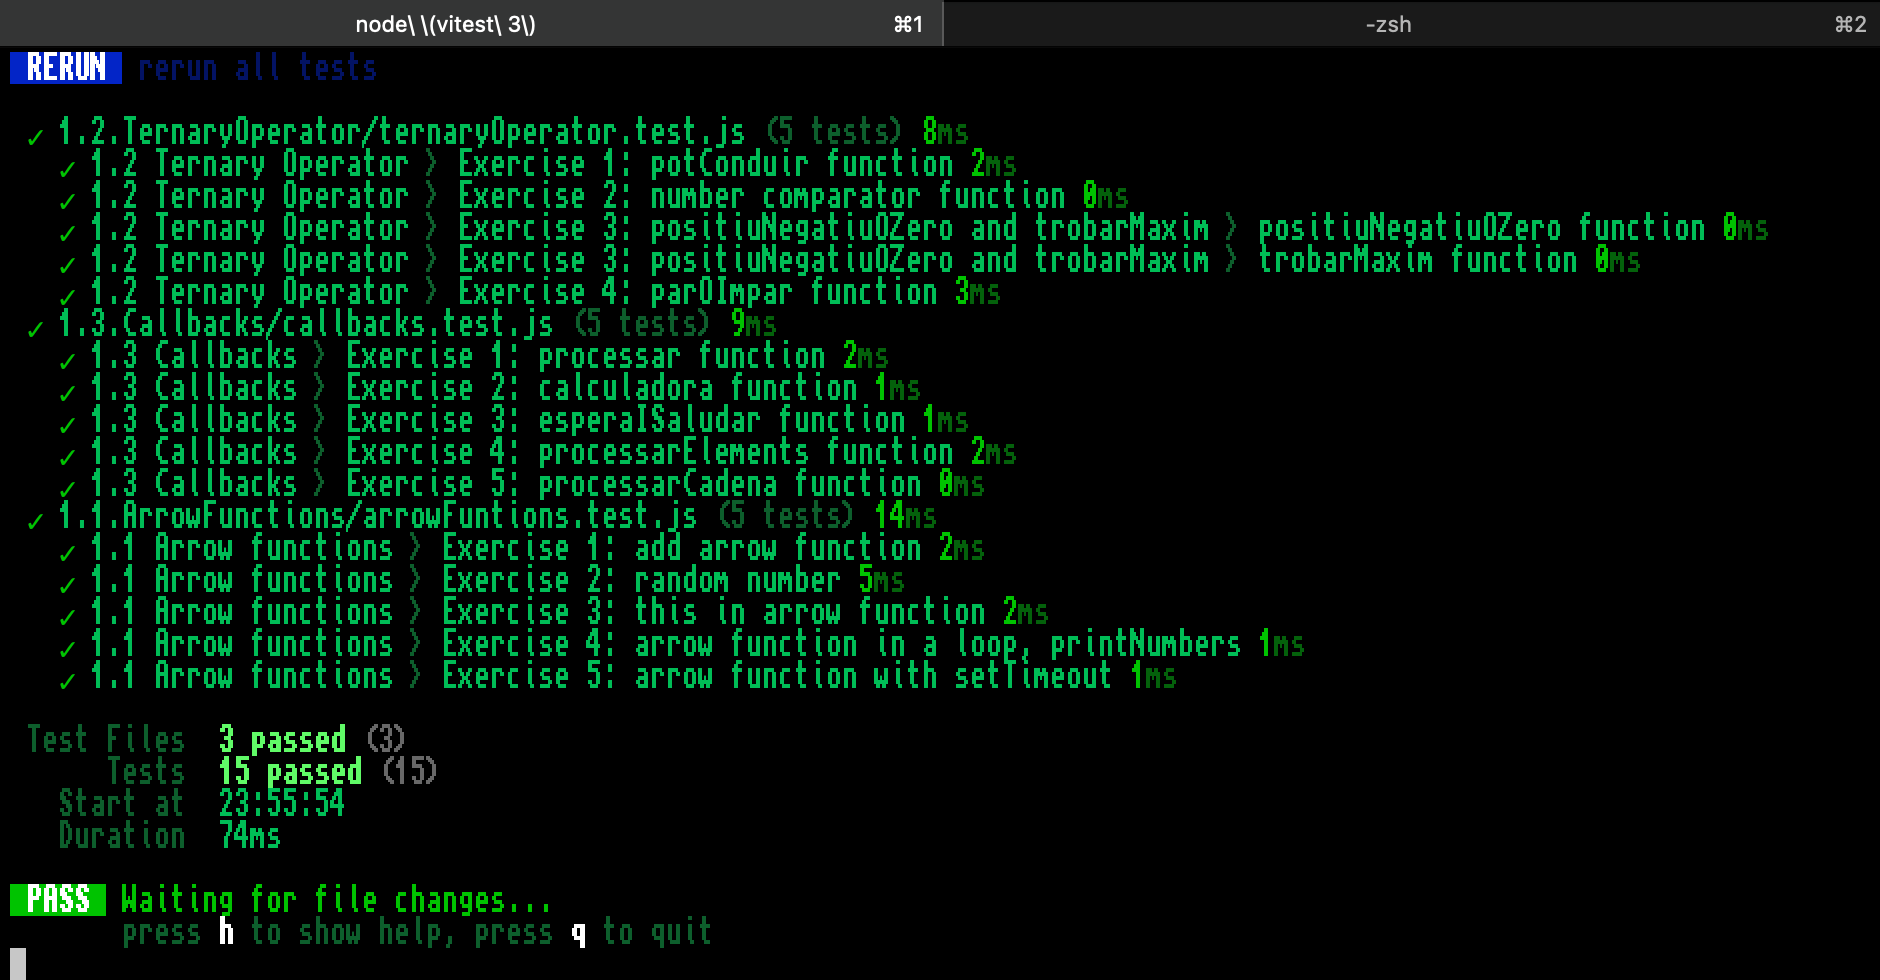
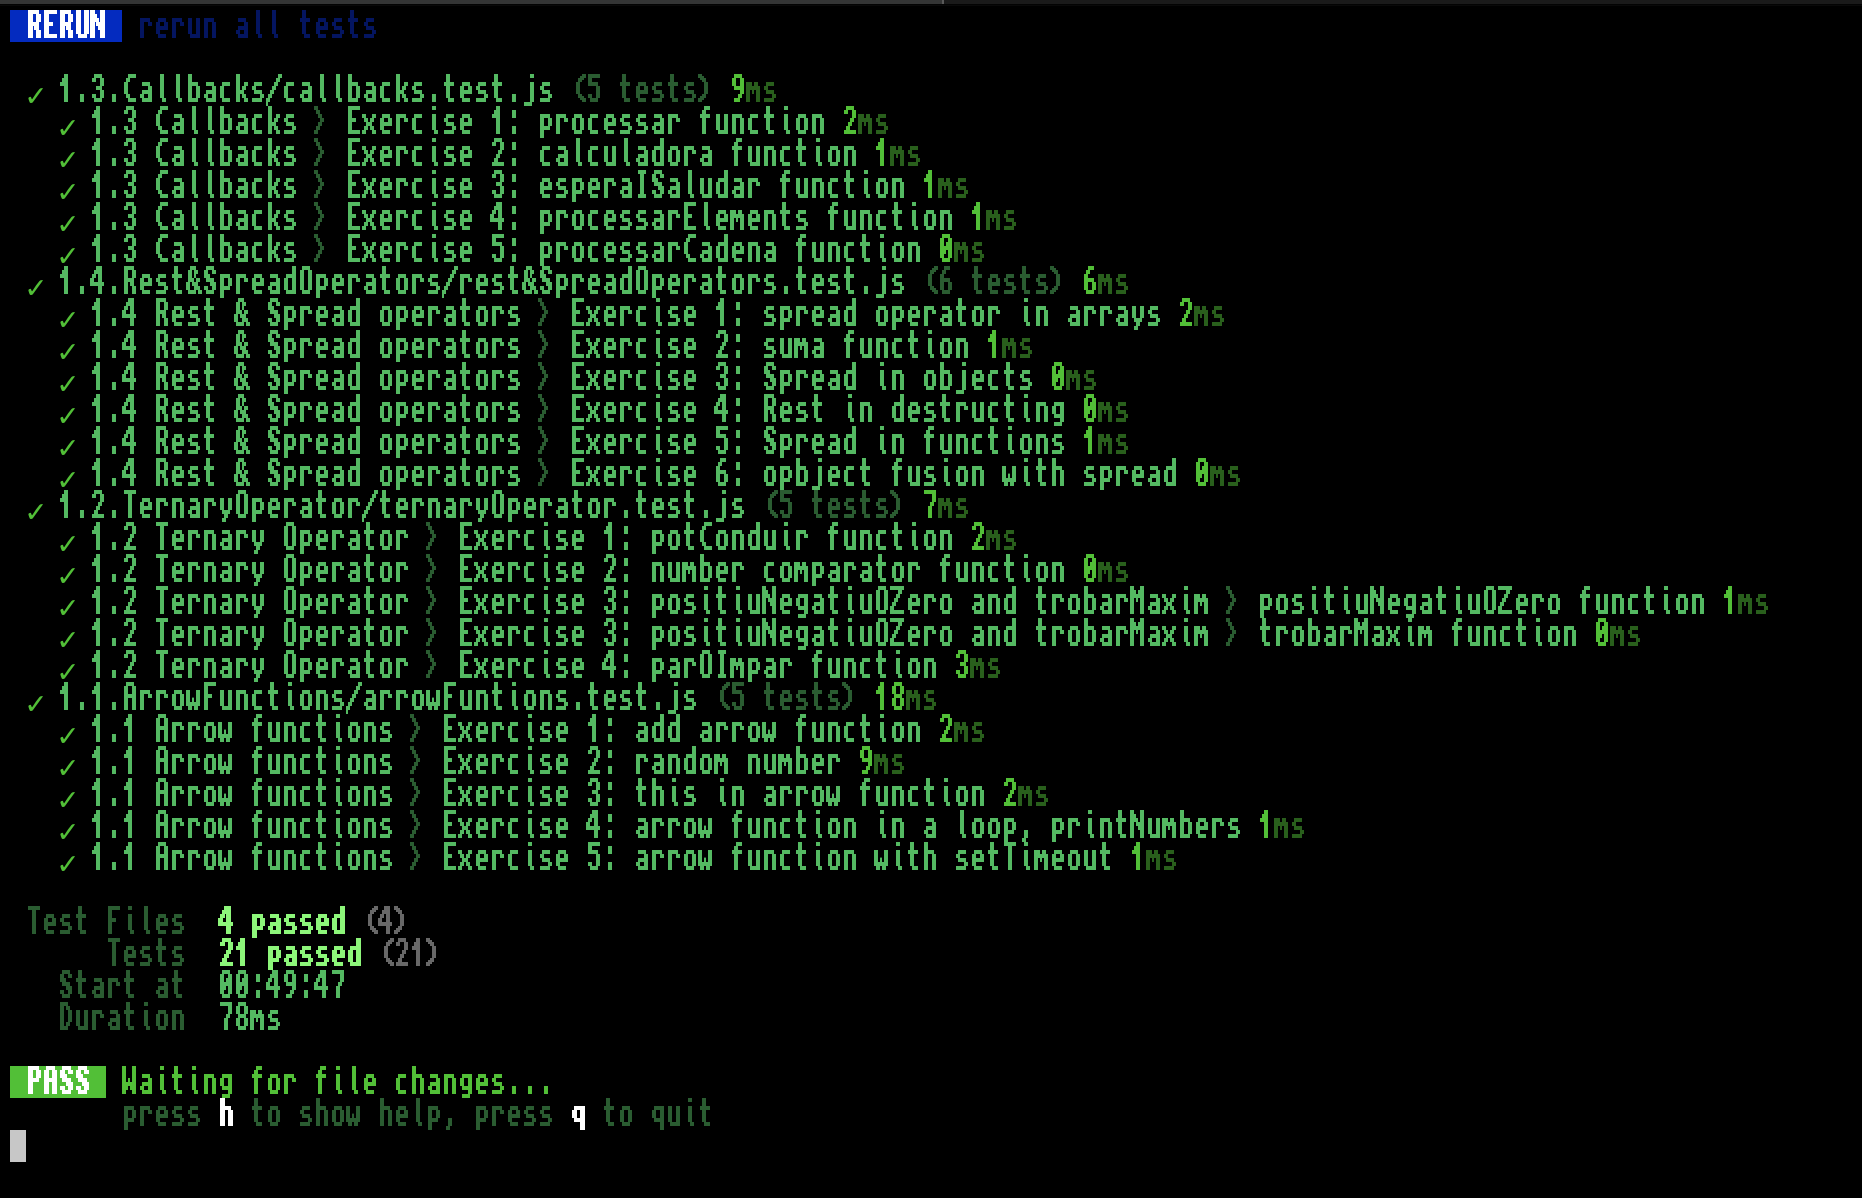
Added exercises for 1.4 Rest and spread operator, readme updated and screenshot

Changed region(s): [[0.0, 0.0, 1.0, 1.0]]

diff --git a/1.4.Rest&SpreadOperators/rest&SpreadOperators.test.js b/1.4.Rest&SpreadOperators/rest&SpreadOperators.test.js
@@ -1,0 +1,78 @@
+import { expect, test, vi, describe, afterAll } from 'vitest';
+import { exercise1SpreadArrays, suma, spreadInObjects, restInDestructing, spreadInFunctions, objectFusion } from './rest&SpreadOperators';
+
+describe ('1.4 Rest & Spread operators', () => {
+  const consoleLogMock = vi.spyOn(console, 'log').mockImplementation(() => undefined);
+
+  afterAll(() => {
+    consoleLogMock.mockReset();
+  });
+
+  test('Exercise 1: spread operator in arrays', () => {
+    const result = exercise1SpreadArrays([0, 1, 2, 3, 4], [5, 6, 7, 8, 9]);
+
+    expect(result).toStrictEqual([0, 1, 2, 3, 4, 5, 6, 7, 8, 9]);
+  });
+
+  test('Exercise 2: suma function', () => {
+    const result1 = suma(0, 1, 2, 3, 4, 5, 6, 7, 8, 9);
+    const result2 = suma(34, 45, -34, -45);
+
+    expect(result1).toBe(45);
+    expect(result2).toBe(0);
+  });
+
+  test('Exercise 3: Spread in objects', () => {
+    const object1 = [0,1,2,3,4];
+    const object2 = spreadInObjects(object1);
+
+    expect(object2).toStrictEqual(object1);
+
+    object2[0] = 100;
+
+    expect(object2).not.toStrictEqual(object1);
+    expect(object2[0]).toBe(100);
+  })
+
+  test('Exercise 4: Rest in destructing', () => {
+    const array = [0,1,2,3,4];
+    const [elem1, elem2, rest] = restInDestructing(array);
+
+    expect(elem1).toBe(0);
+    expect(elem2).toBe(1);
+    expect(rest).toStrictEqual([2,3,4]);
+  })
+
+  test('Exercise 5: Spread in functions', () => {
+    const params = [0,1,2];
+    
+    spreadInFunctions(...params);
+
+    expect(consoleLogMock).toHaveBeenCalledWith('0 1 2');
+  })
+
+  test('Exercise 6: opbject fusion with spread', () => {    
+    const obj1 = {
+      a: 'a',
+      b: 'b',
+      c: 'c',
+    }, obj2 = {
+      d: 'd',
+      e: 'e',
+      f: 'f',
+    },
+    expectedResult = {
+      a: 'a',
+      b: 'b',
+      c: 'c',
+      d: 'd',
+      e: 'e',
+      f: 'f',
+    }
+
+    const result = objectFusion(obj1, obj2);
+
+    expect(result).toStrictEqual(expectedResult);
+  })
+})
+

diff --git a/1.4.Rest&SpreadOperators/rest&SpreadOperators.js b/1.4.Rest&SpreadOperators/rest&SpreadOperators.js
@@ -1,0 +1,29 @@
+const exercise1SpreadArrays = (array1, array2) => {
+  return [...array1, ...array2];
+};
+
+const suma = (...values) => {
+  return values.reduce((sum, value) => sum + value);
+};
+
+const spreadInObjects = (object) => {
+  return [...object];
+}
+
+//4:
+
+const restInDestructing = (array) => {
+  const [elem1, elem2, ...rest] = array;
+
+  return [elem1, elem2, rest];
+}
+
+const spreadInFunctions = (a, b, c) => {
+  console.log(`${a} ${b} ${c}`)
+}
+
+const objectFusion = (obj1, obj2) => {
+  return { ...obj1, ...obj2 }
+};
+
+export { exercise1SpreadArrays, suma, spreadInObjects, restInDestructing, spreadInFunctions, objectFusion };

diff --git a/README.md b/README.md
@@ -4,6 +4,7 @@ This repository implements the Sprint 2.1
 - Exercici 1.1: Arrow functions.
 - Exercise 1.2: Ternary operator.
 - Exercise 1.3: Callbacks.
+- Exercise 1.4: Rest & Spread operator.
 
 The project is a vite + vitest project with only javascript code that implements the exercises. The structure of the exercises is the next one:
 
